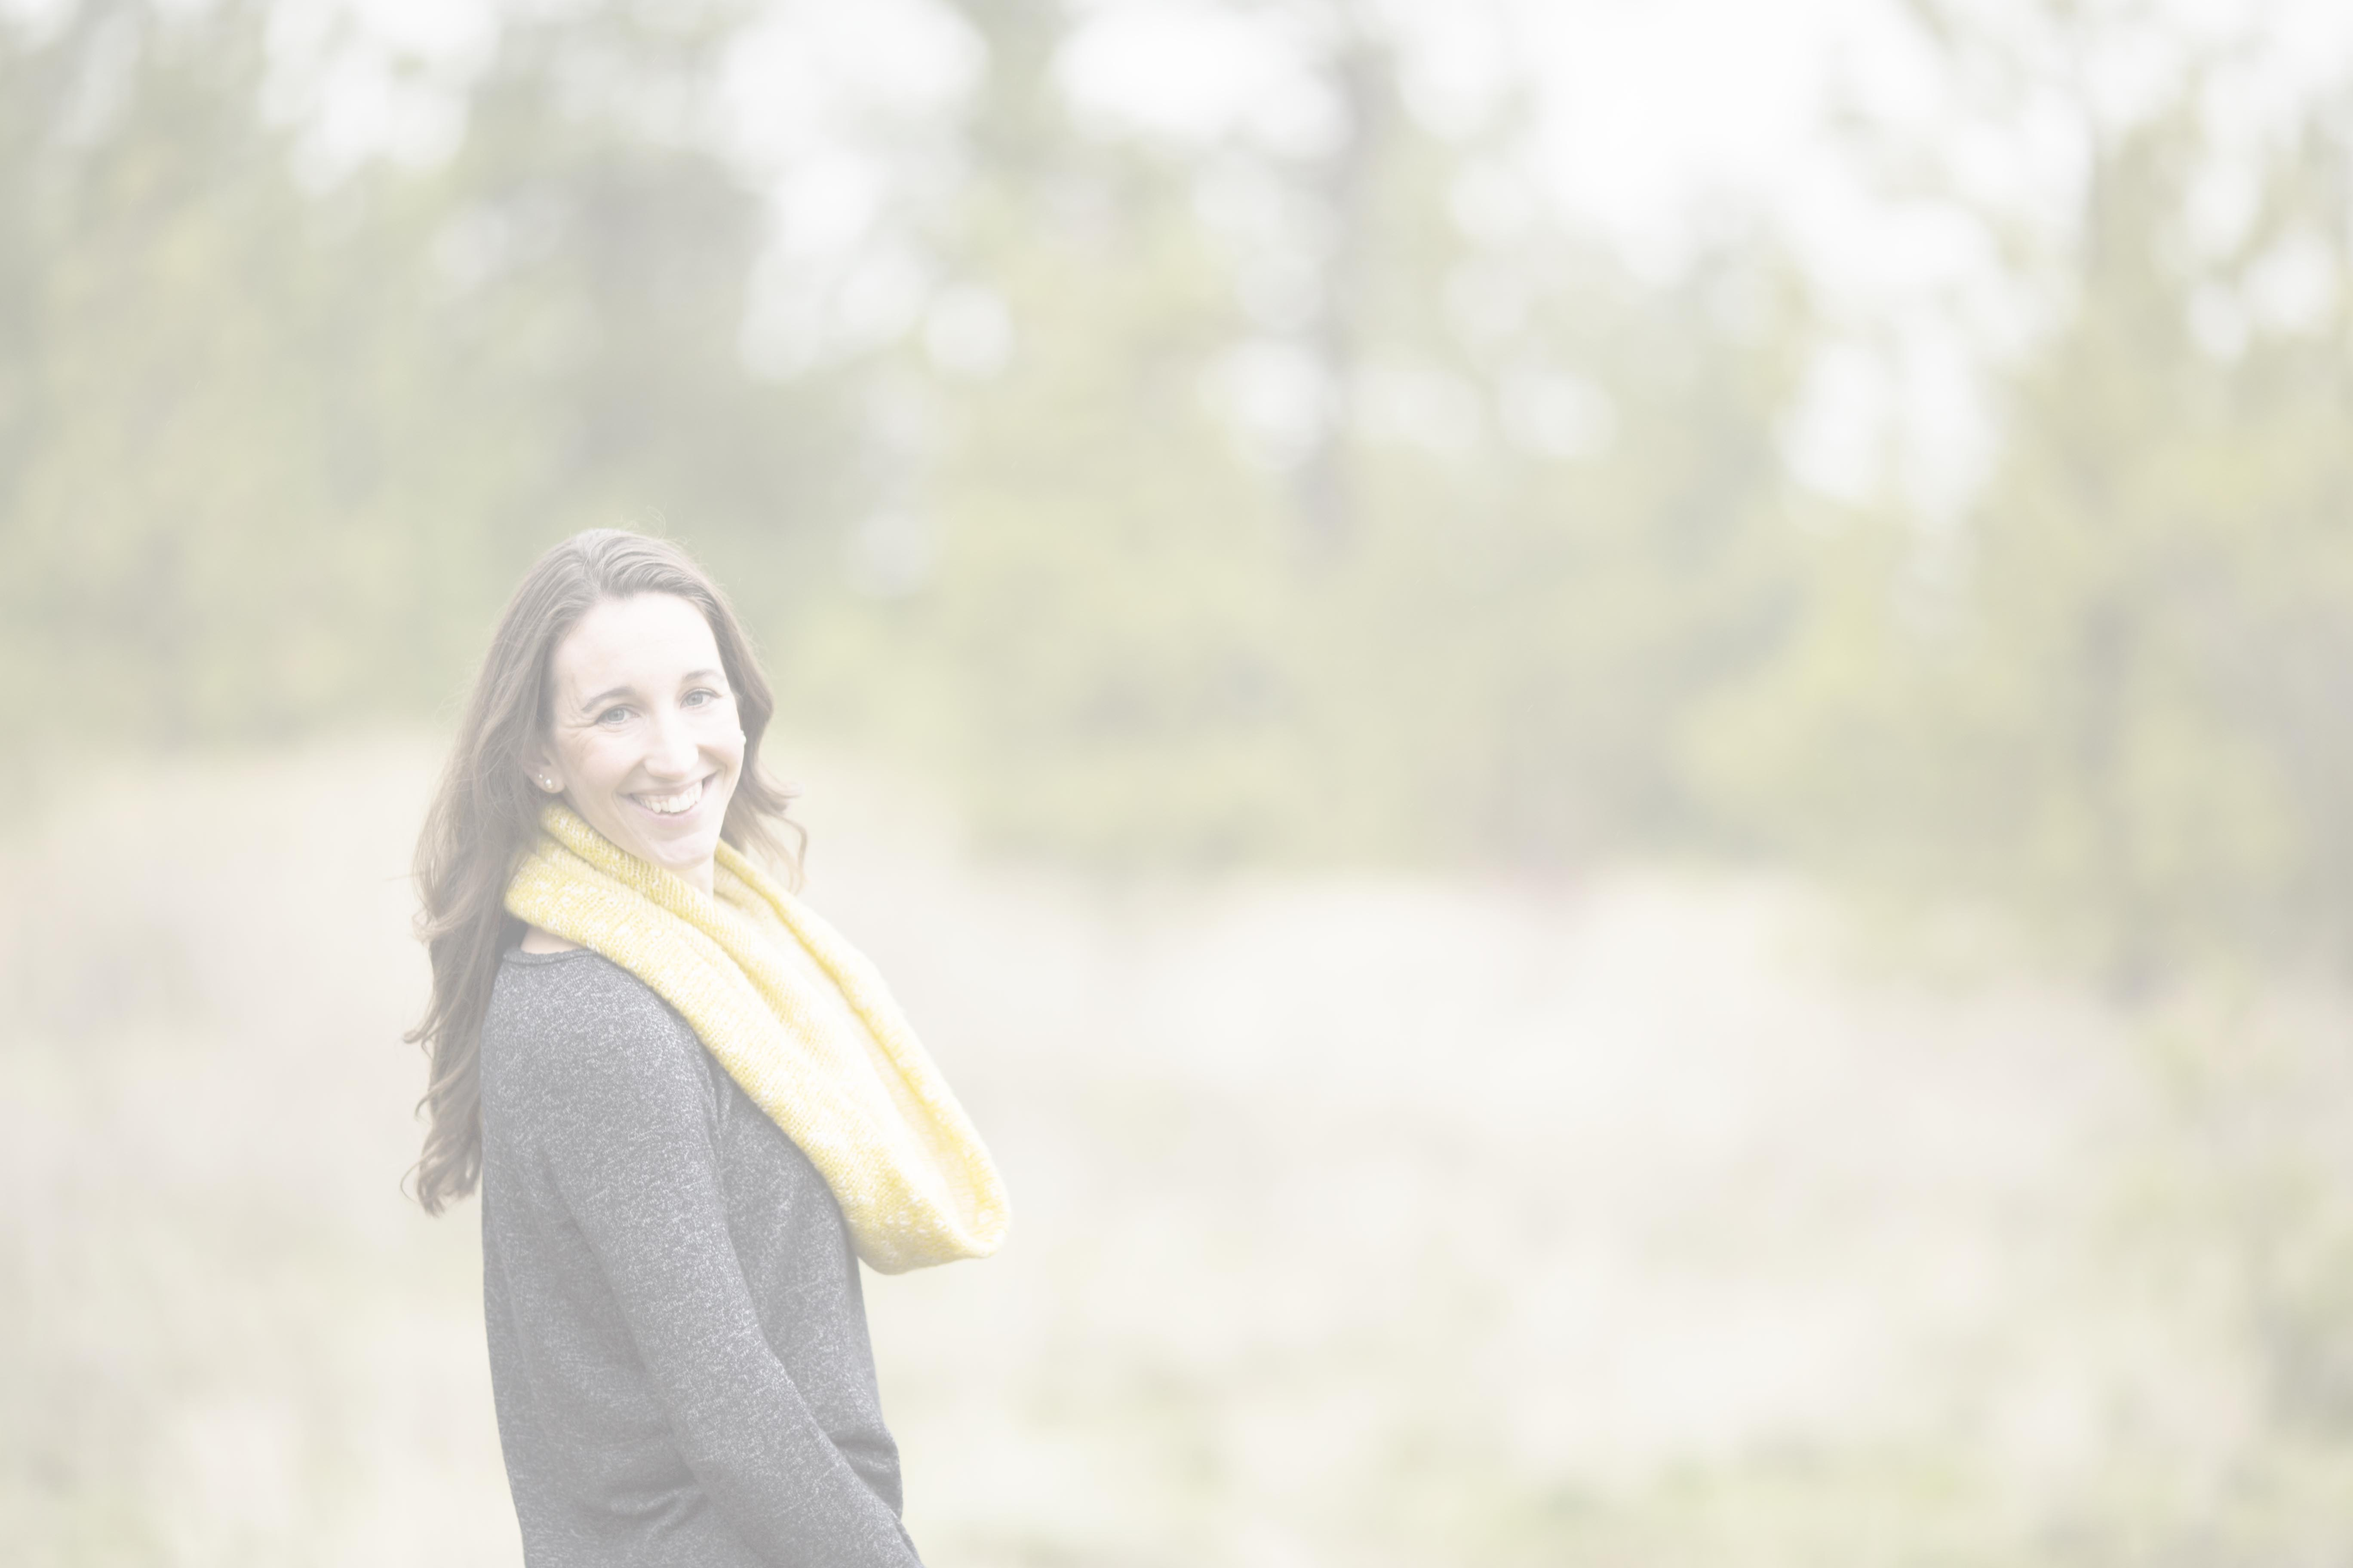
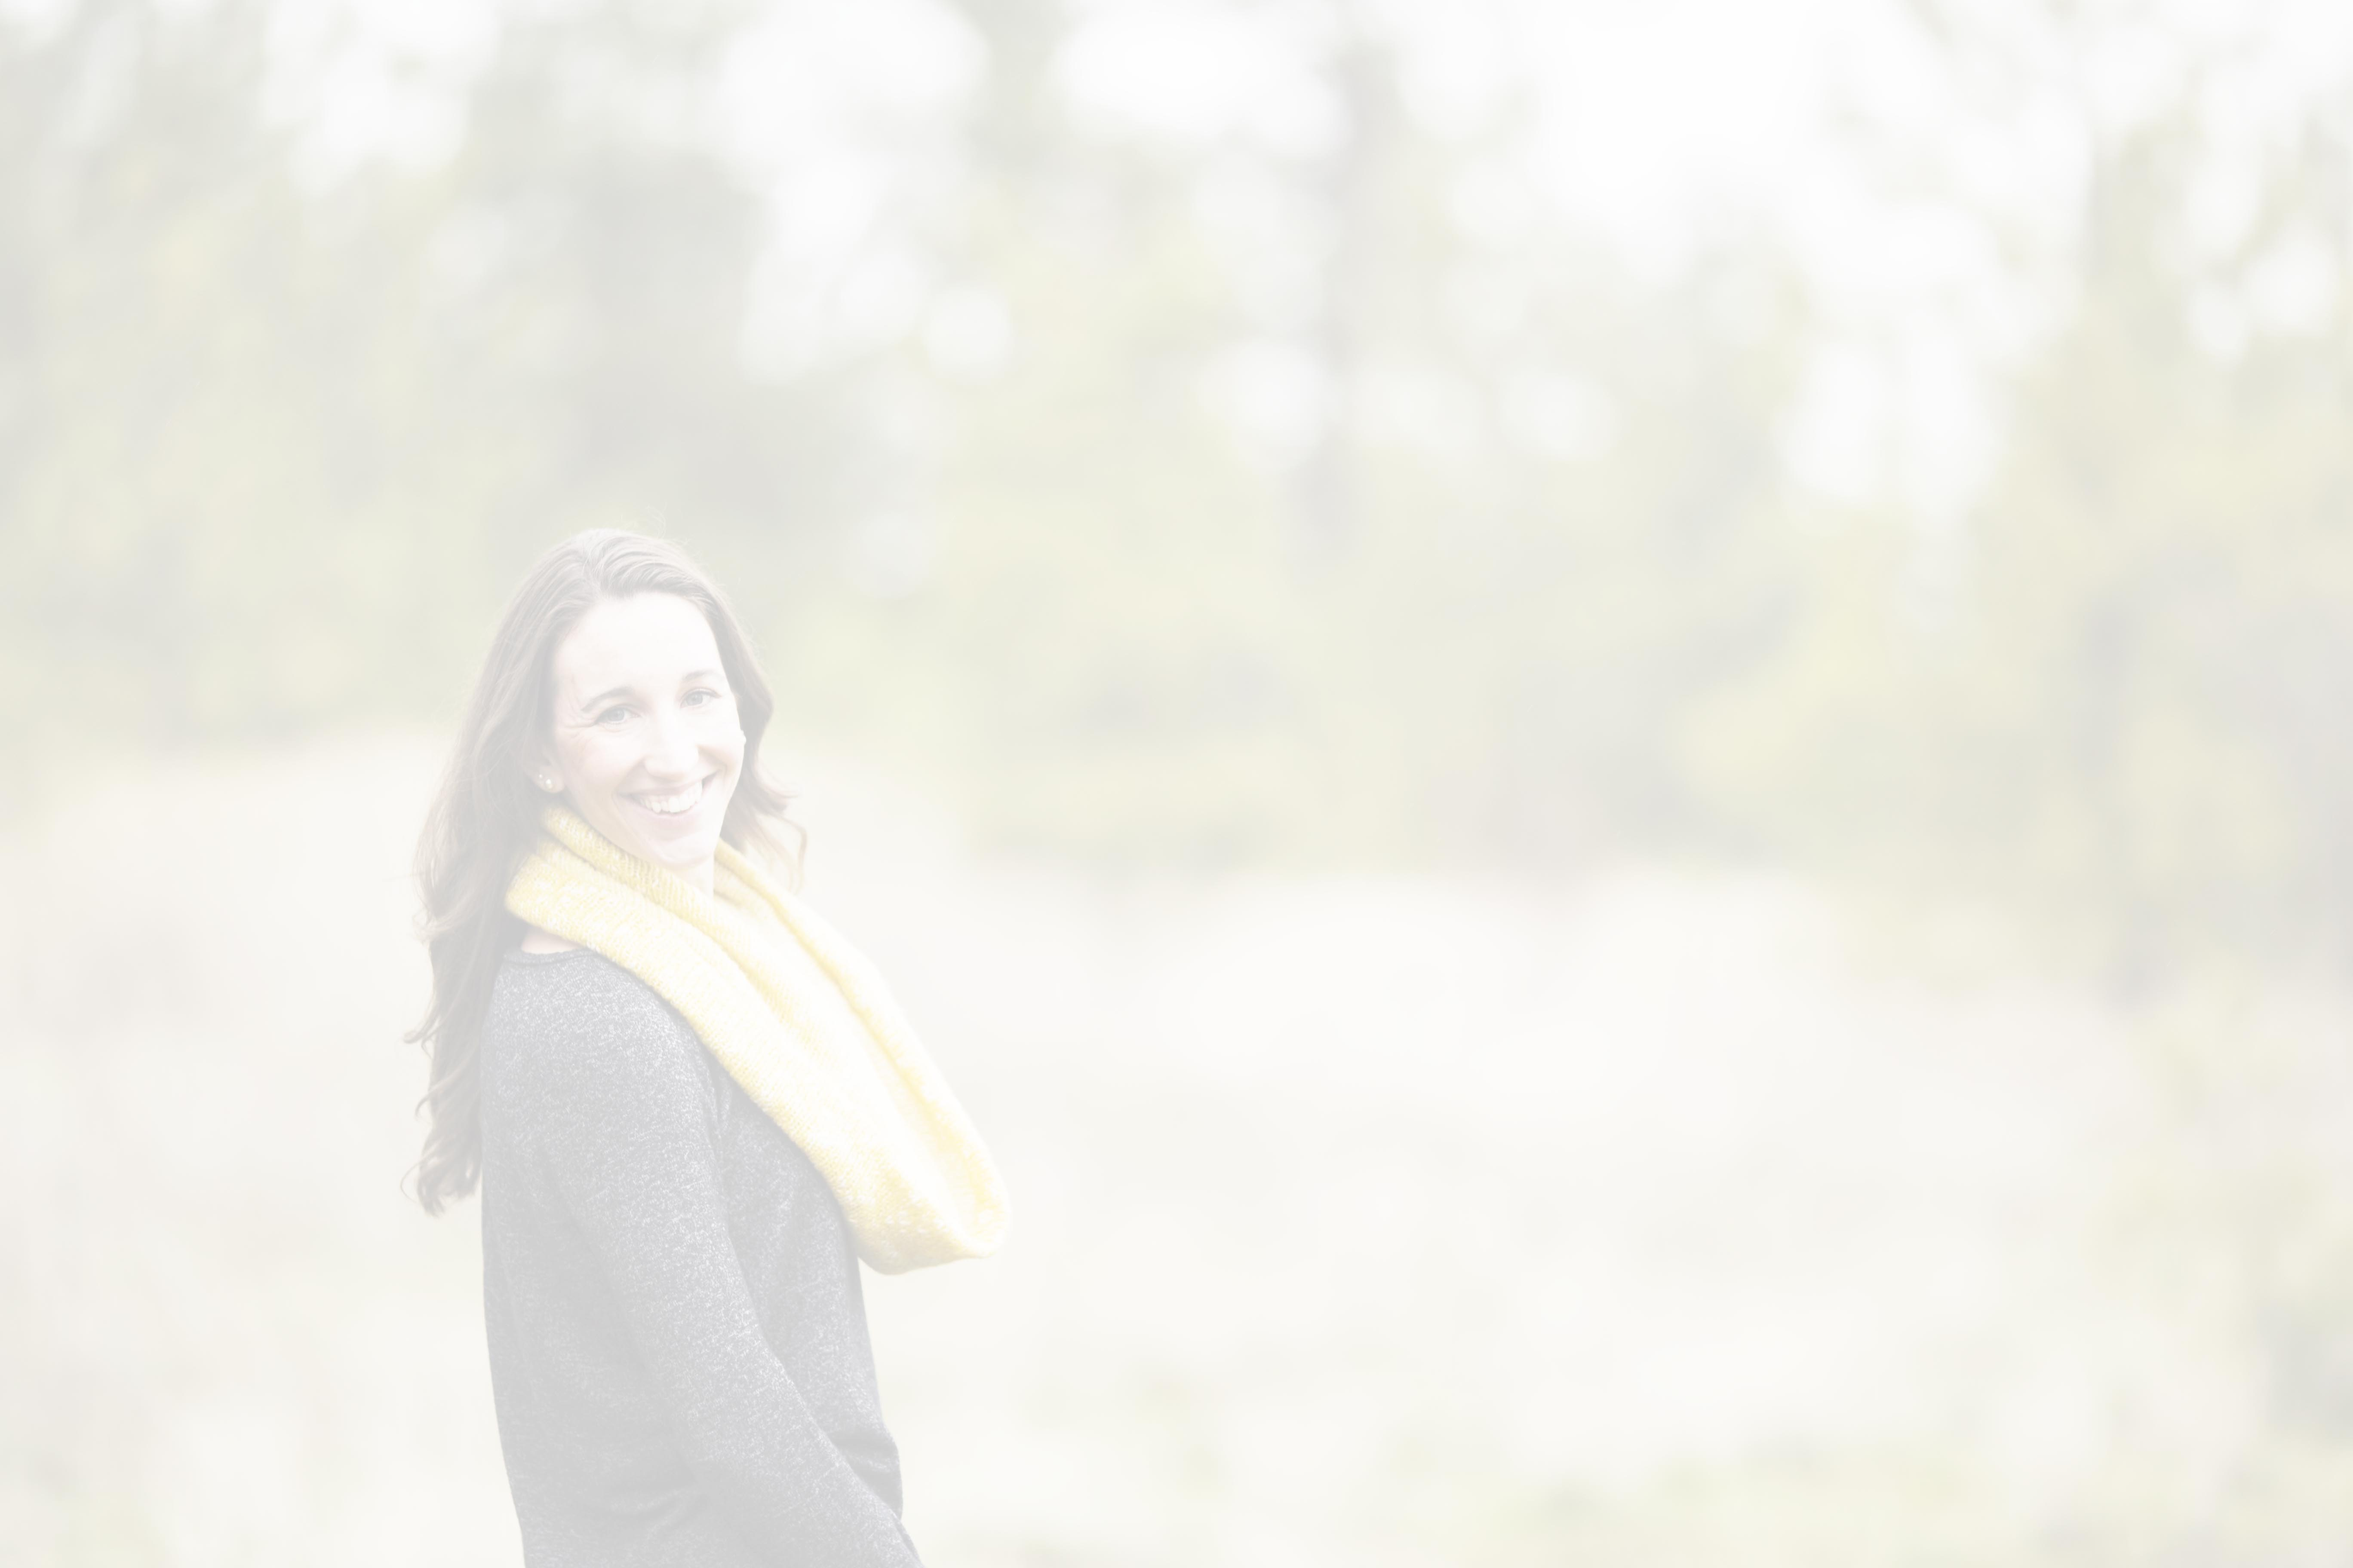
fixed bg img
correct img on contact page. acting responsive and is in the bg

diff --git a/css/styles.css b/css/styles.css
@@ -173,7 +173,6 @@ div{
     display: inline-block;
     vertical-align: top;
     min-width: 200px;
-    margin-left: 20px;
 }
 .left-half{
     max-width: 550px;
@@ -201,7 +200,28 @@ div{
 
 /*Contact page*/
 .contact{
+    background: url(/img/contact_cover.jpg) no-repeat center center fixed; 
+  -webkit-background-size: cover;
+  -moz-background-size: cover;
+  -o-background-size: cover;
+  background-size: cover;
     
+}
+
+#social-media{
+    display: flex;
+    flex-direction: row;
+    flex-wrap: wrap;
+}
+
+.social-media a:hover{
+  transform: scale(1.5);
+      background: none;
+    color
+}
+
+.contact-info{
+   display: flex;
 }
 
 /*Contact Form*/
@@ -213,6 +233,8 @@ div{
             margin: auto;
             width: 50%;
             padding: 2em;
+            max-width: 700px;
+            min-width: 300px;
         }
  
         input, 
@@ -245,7 +267,7 @@ div{
             padding: .2em 0;
 
         }
-        /* Score: 0,0,1,1  */
+         Score: 0,0,1,1  
         input[type=submit]{
           background: rebeccapurple;
           border: none;
@@ -261,6 +283,17 @@ div{
           transition: background .5s;
 
         }
+/*cover Photo*/
+contact.html{
+  background:url(/img/contact_cover.jpg) no-repeat center center fixed; 
+  -webkit-background-size: cover;
+  -moz-background-size: cover;
+  -o-background-size: cover;
+  background-size: cover;
+    
+    margin-top: 96px;
+}
+
 
 
 /*Media Queries*/
@@ -269,7 +302,7 @@ div{
 
   /* Diagnostic Styling. */
 	body {
-       background: red;
+/*       background: red;*/
 	}
 	
 }
@@ -279,7 +312,7 @@ div{
 
   /* Diagnostic Styling. */
   body {
-       background: green;
+/*       background: green;*/
   }
 
 }
@@ -289,7 +322,7 @@ div{
   
   /* Diagnostic Styling. */
   body {
-       background: blue;
+/*       background: blue;*/
   }
 
 }
